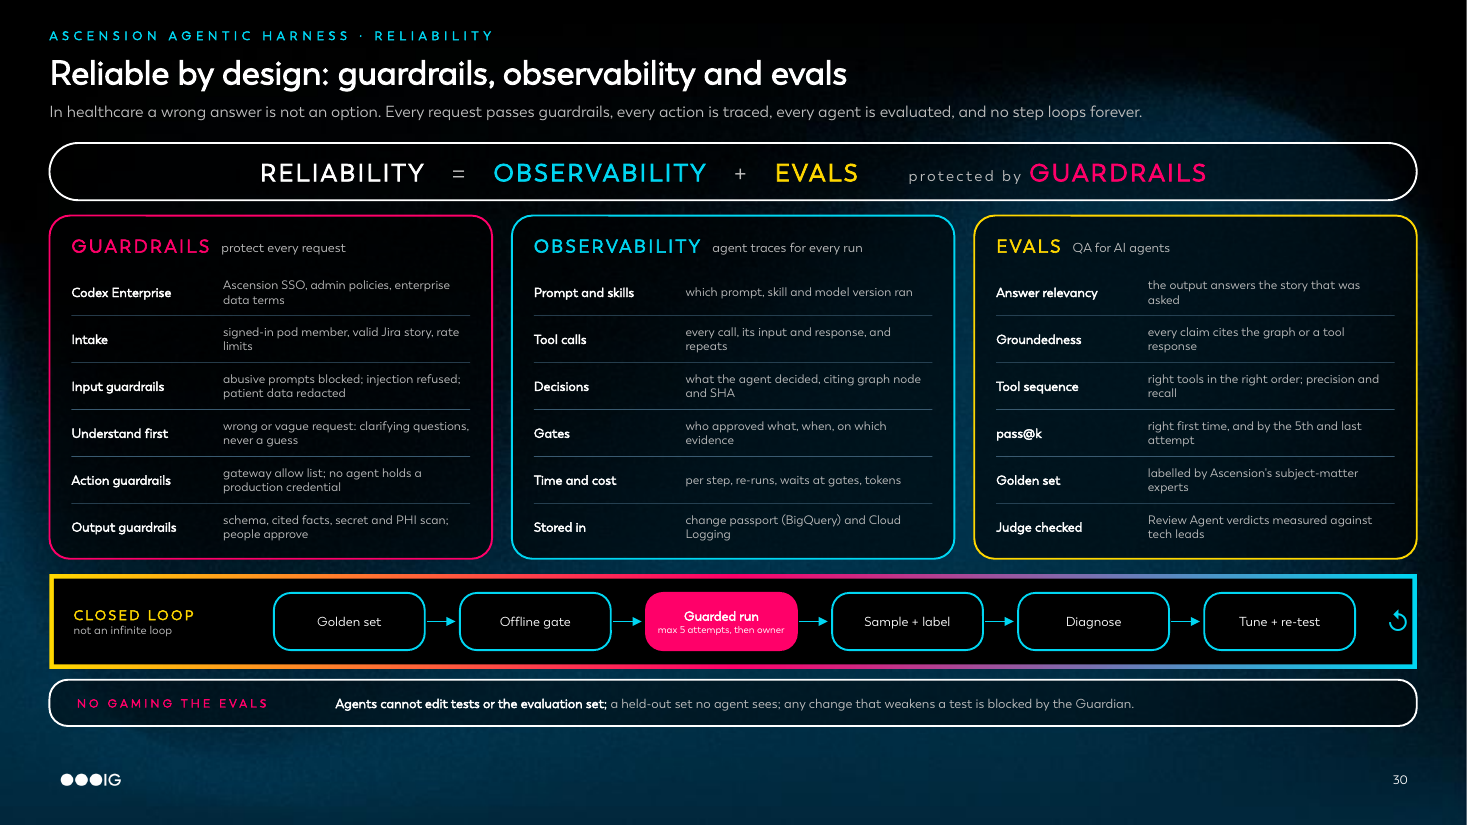
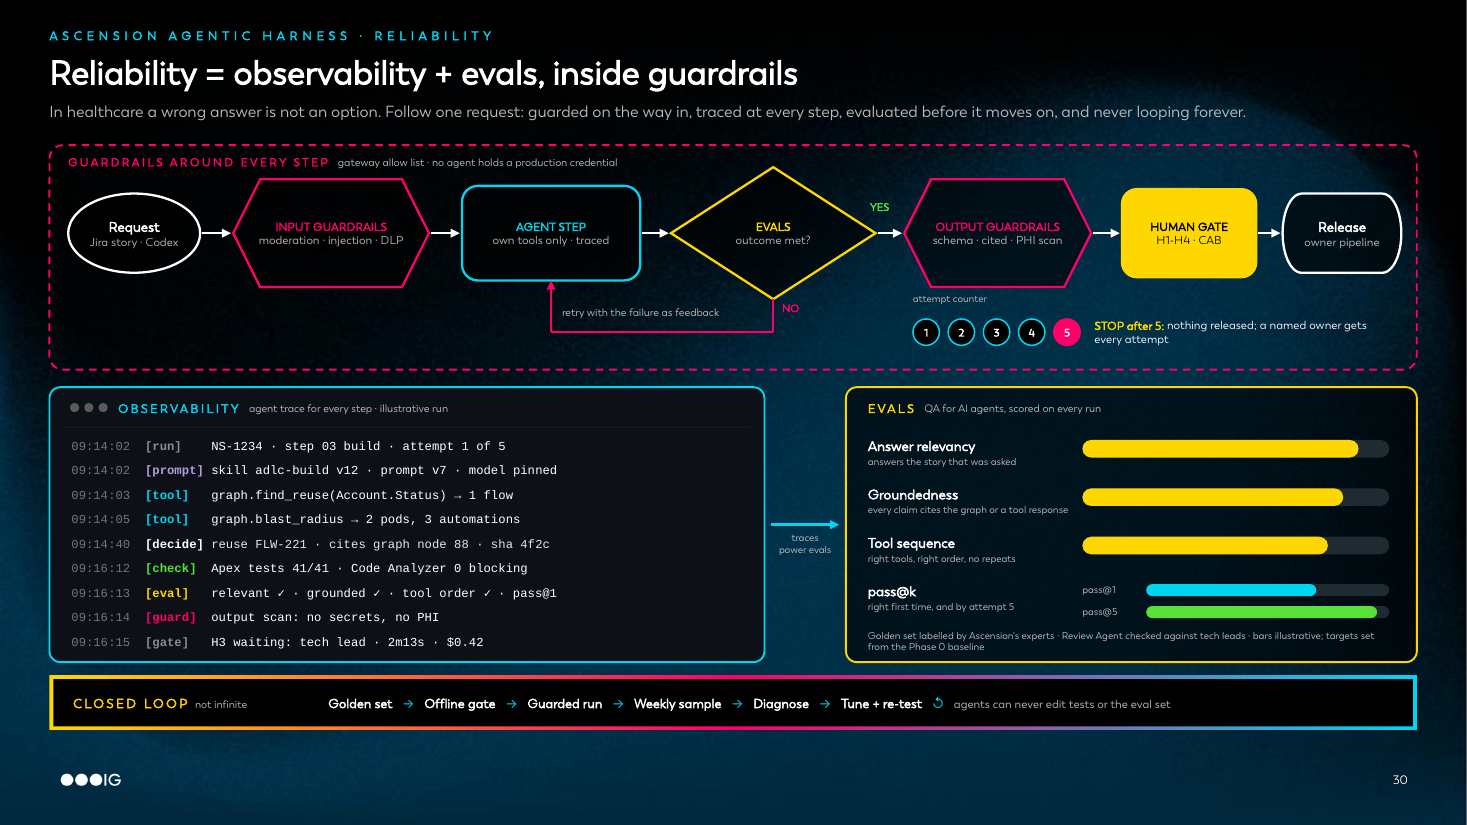
Preview: reliability slide as a flow (guardrails, trace log, eval scoreboard, closed loop)
Not yet in the deck.

Claude-Session: https://claude.ai/code/session_01Hf94kqMzSofkkrQm7kpNba

diff --git a/poc/deck/story_slides.py b/poc/deck/story_slides.py
@@ -1463,3 +1463,152 @@ Agents cannot edit tests or the evaluation set, a held-out set is never shown to
 IF ASKED
 - Who does the evals, people or machines? Both: automated scoring on every run, Ascension's experts on the golden set and the weekly sample, and the judge itself is checked against humans.
 - What if a patient-data leak is attempted? DLP redacts before any model call, the output scan checks again, and the attempt is logged."""
+
+
+# ================================================================== reliability, visual version: flow + trace log + scoreboard
+TRACE = [
+    ("8C8C8C", "09:14:02", "run", "NS-1234 · step 03 build · attempt 1 of 5"),
+    ("B39DDB", "09:14:02", "prompt", "skill adlc-build v12 · prompt v7 · model pinned"),
+    (CYAN, "09:14:03", "tool", "graph.find_reuse(Account.Status) → 1 flow"),
+    (CYAN, "09:14:05", "tool", "graph.blast_radius → 2 pods, 3 automations"),
+    (WHITE, "09:14:40", "decide", "reuse FLW-221 · cites graph node 88 · sha 4f2c"),
+    (GREEN, "09:16:12", "check", "Apex tests 41/41 · Code Analyzer 0 blocking"),
+    (YELLOW, "09:16:13", "eval", "relevant ✓ · grounded ✓ · tool order ✓ · pass@1"),
+    (MAGENTA, "09:16:14", "guard", "output scan: no secrets, no PHI"),
+    ("8C8C8C", "09:16:15", "gate", "H3 waiting: tech lead · 2m13s · $0.42"),
+]
+SCORE = [
+    ("Answer relevancy", "answers the story that was asked", 0.9),
+    ("Groundedness", "every claim cites the graph or a tool response", 0.85),
+    ("Tool sequence", "right tools, right order, no repeats", 0.8),
+]
+
+
+def reliability_flow_slide(prs, layout):
+    s = prs.slides.add_slide(layout)
+    set_bg_image(s, BG_BLUE)
+    cv = Canvas(s)
+    dark_header(cv, "ASCENSION MAD APPROACH · RELIABILITY",
+                "Reliability = observability + evals, inside guardrails",
+                "In healthcare a wrong answer is not an option. Follow one request: guarded on the way in, traced at "
+                "every step, evaluated before it moves on, and never looping forever.")
+    # ---- the flow
+    ey0, ey1 = 1.32, 3.36
+    cv.rect(0.45, ey0, 12.43, ey1 - ey0, None, MAGENTA, 1.25, MSO_SHAPE.ROUNDED_RECTANGLE, 0.06, dash="dash")
+    cv.text(0.62, ey0 + 0.04, 6.0, 0.22, [[("GUARDRAILS AROUND EVERY STEP", {"bold": True, "color": MAGENTA,
+                                                                           "track": 150}),
+                                          ("   gateway allow list · no agent holds a production credential",
+                                           {"color": SOFT, "size": 7})]], size=7.5, anchor=MSO_ANCHOR.MIDDLE)
+    cy = 2.12
+
+    def node(x, w, h, shape, fill, line, lines, tcol=WHITE, lw=1.5):
+        sp = cv.rect(x, cy - h / 2, w, h, fill, line, lw, shape)
+        if fill == BLACK:
+            clr = sp._element.spPr.find(a("solidFill")).find(a("srgbClr"))
+            etree.SubElement(clr, a("alpha"), val="60000")
+        cv.text(x + 0.08, cy - h / 2, w - 0.16, h, lines, size=7.5, color=tcol, align=PP_ALIGN.CENTER,
+                anchor=MSO_ANCHOR.MIDDLE)
+        return x, w
+
+    req = node(0.62, 1.2, 0.72, MSO_SHAPE.OVAL, BLACK, WHITE,
+               [[("Request", {"bold": True, "size": 9})], [("Jira story · Codex", {"color": SOFT})]])
+    ing = node(2.12, 1.78, 0.98, MSO_SHAPE.HEXAGON, BLACK, MAGENTA,
+               [[("INPUT GUARDRAILS", {"bold": True, "color": MAGENTA})],
+                [("moderation · injection · DLP", {"color": SOFT})]])
+    agt = node(4.2, 1.62, 0.86, MSO_SHAPE.ROUNDED_RECTANGLE, BLACK, CYAN,
+               [[("AGENT STEP", {"bold": True, "color": CYAN})], [("own tools only · traced", {"color": SOFT})]])
+    evl = node(6.1, 1.86, 1.2, MSO_SHAPE.DIAMOND, BLACK, YELLOW,
+               [[("EVALS", {"bold": True, "color": YELLOW})], [("outcome met?", {"color": SOFT})]])
+    out = node(8.22, 1.7, 0.98, MSO_SHAPE.HEXAGON, BLACK, MAGENTA,
+               [[("OUTPUT GUARDRAILS", {"bold": True, "color": MAGENTA})],
+                [("schema · cited · PHI scan", {"color": SOFT})]])
+    gat = node(10.2, 1.22, 0.8, MSO_SHAPE.ROUNDED_RECTANGLE, YELLOW, YELLOW,
+               [[("HUMAN GATE", {"bold": True})], [("H1-H4 · CAB", {})]], tcol=BLACK)
+    rel = node(11.66, 1.08, 0.72, MSO_SHAPE.FLOWCHART_TERMINATOR, BLACK, WHITE,
+               [[("Release", {"bold": True, "size": 9})], [("owner pipeline", {"color": SOFT})]])
+    chain = [(req, 0.36), (ing, 0.49), (agt, 0.43), (evl, 0.6), (out, 0.49), (gat, 0.4), (rel, 0.36)]
+    for (n1, _), (n2, _) in zip(chain, chain[1:]):
+        cv.arrow(n1[0] + n1[1] + 0.02, cy, n2[0] - 0.02, cy, WHITE, 1.5)
+    cv.text(evl[0] + evl[1] - 0.05, cy - 0.3, 0.4, 0.2, "YES", size=7, bold=True, color=GREEN)
+    # retry loop under the flow
+    ly = 3.02
+    ex = evl[0] + evl[1] / 2
+    ax = agt[0] + agt[1] / 2
+    cv.arrow(ex, cy + 0.6, ex, ly, MAGENTA, 1.5, head=False)
+    cv.arrow(ex, ly, ax, ly, MAGENTA, 1.5, head=False)
+    cv.arrow(ax, ly, ax, cy + 0.43, MAGENTA, 1.5)
+    cv.text(ex + 0.08, cy + 0.62, 0.4, 0.2, "NO", size=7, bold=True, color=MAGENTA)
+    cv.text(ax + 0.1, ly - 0.24, 2.0, 0.2, "retry with the failure as feedback", size=7, color=SOFT)
+    for k in range(MAX_ATTEMPTS):
+        last = k == MAX_ATTEMPTS - 1
+        dx = 8.3 + k * 0.32
+        cv.rect(dx, ly - 0.12, 0.24, 0.24, MAGENTA if last else BLACK, MAGENTA if last else CYAN, 1.0,
+                MSO_SHAPE.OVAL)
+        cv.text(dx, ly - 0.12, 0.24, 0.24, str(k + 1), size=7, bold=True, color=WHITE, align=PP_ALIGN.CENTER,
+                anchor=MSO_ANCHOR.MIDDLE)
+    cv.text(8.3, ly - 0.36, 1.6, 0.2, "attempt counter", size=6.5, color=SOFT)
+    cv.text(8.3 + MAX_ATTEMPTS * 0.32 + 0.05, ly - 0.15, 2.7, 0.3,
+            [[("STOP after %d: " % MAX_ATTEMPTS, {"bold": True, "color": YELLOW}),
+              ("nothing released; a named owner gets every attempt", {"color": WHITE})]], size=7.5,
+            anchor=MSO_ANCHOR.MIDDLE)
+    # ---- observability: the trace log
+    ty, th = 3.52, 2.5
+    tx, tw = 0.45, 6.5
+    sp = cv.rect(tx, ty, tw, th, "0D1117", CYAN, 1.25, MSO_SHAPE.ROUNDED_RECTANGLE, 0.04)
+    cv.text(tx + 0.18, ty + 0.06, tw - 0.3, 0.26,
+            [[("● ● ●   ", {"color": "5A5A5A"}), ("OBSERVABILITY", {"bold": True, "color": CYAN, "track": 150}),
+              ("   agent trace for every step · illustrative run", {"color": SOFT, "size": 7})]], size=8,
+            anchor=MSO_ANCHOR.MIDDLE)
+    cv.rect(tx + 0.12, ty + 0.36, tw - 0.24, 0.006, "2A2A2A")
+    lh = (th - 0.5) / len(TRACE)
+    for i, (col, ts, kind, msg) in enumerate(TRACE):
+        cv.text(tx + 0.2, ty + 0.42 + i * lh, tw - 0.3, lh,
+                [[(ts + "  ", {"color": "6E7681"}), (("[%s]" % kind).ljust(9), {"color": col, "bold": True}),
+                  (msg, {"color": WHITE if col != WHITE else "E6E6E6"})]], size=8, font="Courier New",
+                anchor=MSO_ANCHOR.MIDDLE)
+    # traces power evals
+    cv.arrow(tx + tw + 0.06, ty + th / 2, tx + tw + 0.68, ty + th / 2, CYAN, 2.0)
+    cv.text(tx + tw + 0.02, ty + th / 2 + 0.06, 0.7, 0.36, ["traces", "power evals"], size=6.5, color=SOFT,
+            align=PP_ALIGN.CENTER)
+    # ---- evals: the scoreboard
+    sx, sw = tx + tw + 0.74, 12.88 - (tx + tw + 0.74)
+    glass(cv, sx, ty, sw, th, YELLOW, alpha=60, radius=0.04)
+    cv.text(sx + 0.2, ty + 0.06, sw - 0.4, 0.26, [[("EVALS", {"bold": True, "color": YELLOW, "track": 150}),
+                                                  ("   QA for AI agents, scored on every run", {"color": SOFT,
+                                                                                              "size": 7})]],
+            size=8, anchor=MSO_ANCHOR.MIDDLE)
+    bx, bw = sx + 2.15, sw - 2.4
+    for i, (name, desc, v) in enumerate(SCORE):
+        y = ty + 0.42 + i * 0.44
+        cv.text(sx + 0.2, y, 2.0, 0.22, name, size=9, bold=True, color=WHITE, anchor=MSO_ANCHOR.MIDDLE)
+        cv.text(sx + 0.2, y + 0.2, 2.0, 0.2, desc, size=6.5, color=SOFT)
+        cv.rect(bx, y + 0.06, bw, 0.16, "1F2A33", None, shape=MSO_SHAPE.ROUNDED_RECTANGLE, radius=0.5)
+        cv.rect(bx, y + 0.06, bw * v, 0.16, YELLOW, None, shape=MSO_SHAPE.ROUNDED_RECTANGLE, radius=0.5)
+    y = ty + 0.42 + 3 * 0.44
+    cv.text(sx + 0.2, y, 2.0, 0.22, "pass@k", size=9, bold=True, color=WHITE, anchor=MSO_ANCHOR.MIDDLE)
+    cv.text(sx + 0.2, y + 0.2, 2.0, 0.2, "right first time, and by attempt 5", size=6.5, color=SOFT)
+    for j, (lab, v, col) in enumerate((("pass@1", 0.7, CYAN), ("pass@5", 0.95, GREEN))):
+        yy = y + 0.02 + j * 0.2
+        cv.text(bx, yy, 0.55, 0.16, lab, size=6.5, color=SOFT, anchor=MSO_ANCHOR.MIDDLE)
+        cv.rect(bx + 0.58, yy + 0.03, bw - 0.58, 0.11, "1F2A33", None, shape=MSO_SHAPE.ROUNDED_RECTANGLE,
+                radius=0.5)
+        cv.rect(bx + 0.58, yy + 0.03, (bw - 0.58) * v, 0.11, col, None, shape=MSO_SHAPE.ROUNDED_RECTANGLE,
+                radius=0.5)
+    cv.text(sx + 0.2, ty + th - 0.3, sw - 0.4, 0.26,
+            "Golden set labelled by Ascension's experts · Review Agent checked against tech leads · bars "
+            "illustrative; targets set from the Phase 0 baseline", size=6.5, color=SOFT)
+    # ---- closed loop band
+    by, bh = ty + th + 0.12, 0.5
+    fx, fy, fw, fh = cv.frame(0.45, by, 12.43, bh, BLACK, 0.035)
+    steps = ["Golden set", "Offline gate", "Guarded run", "Weekly sample", "Diagnose", "Tune + re-test"]
+    cv.text(fx + 0.18, fy, 2.4, fh, [[("CLOSED LOOP", {"bold": True, "color": YELLOW, "track": 150}),
+                                     ("  not infinite", {"color": SOFT, "size": 7})]], size=8.5,
+            anchor=MSO_ANCHOR.MIDDLE)
+    cv.text(fx + 2.5, fy, fw - 2.7, fh,
+            [sum([[(t, {"bold": True, "color": WHITE}), ("   →   " if i < len(steps) - 1 else "   ↺   ",
+                                                        {"color": CYAN})] for i, t in enumerate(steps)], []) +
+             [("agents can never edit tests or the eval set", {"color": SOFT, "size": 7.5})]],
+            size=8.5, anchor=MSO_ANCHOR.MIDDLE)
+    dark_footer(s)
+    set_notes(s, RELIABILITY_NOTES)
+    return s
